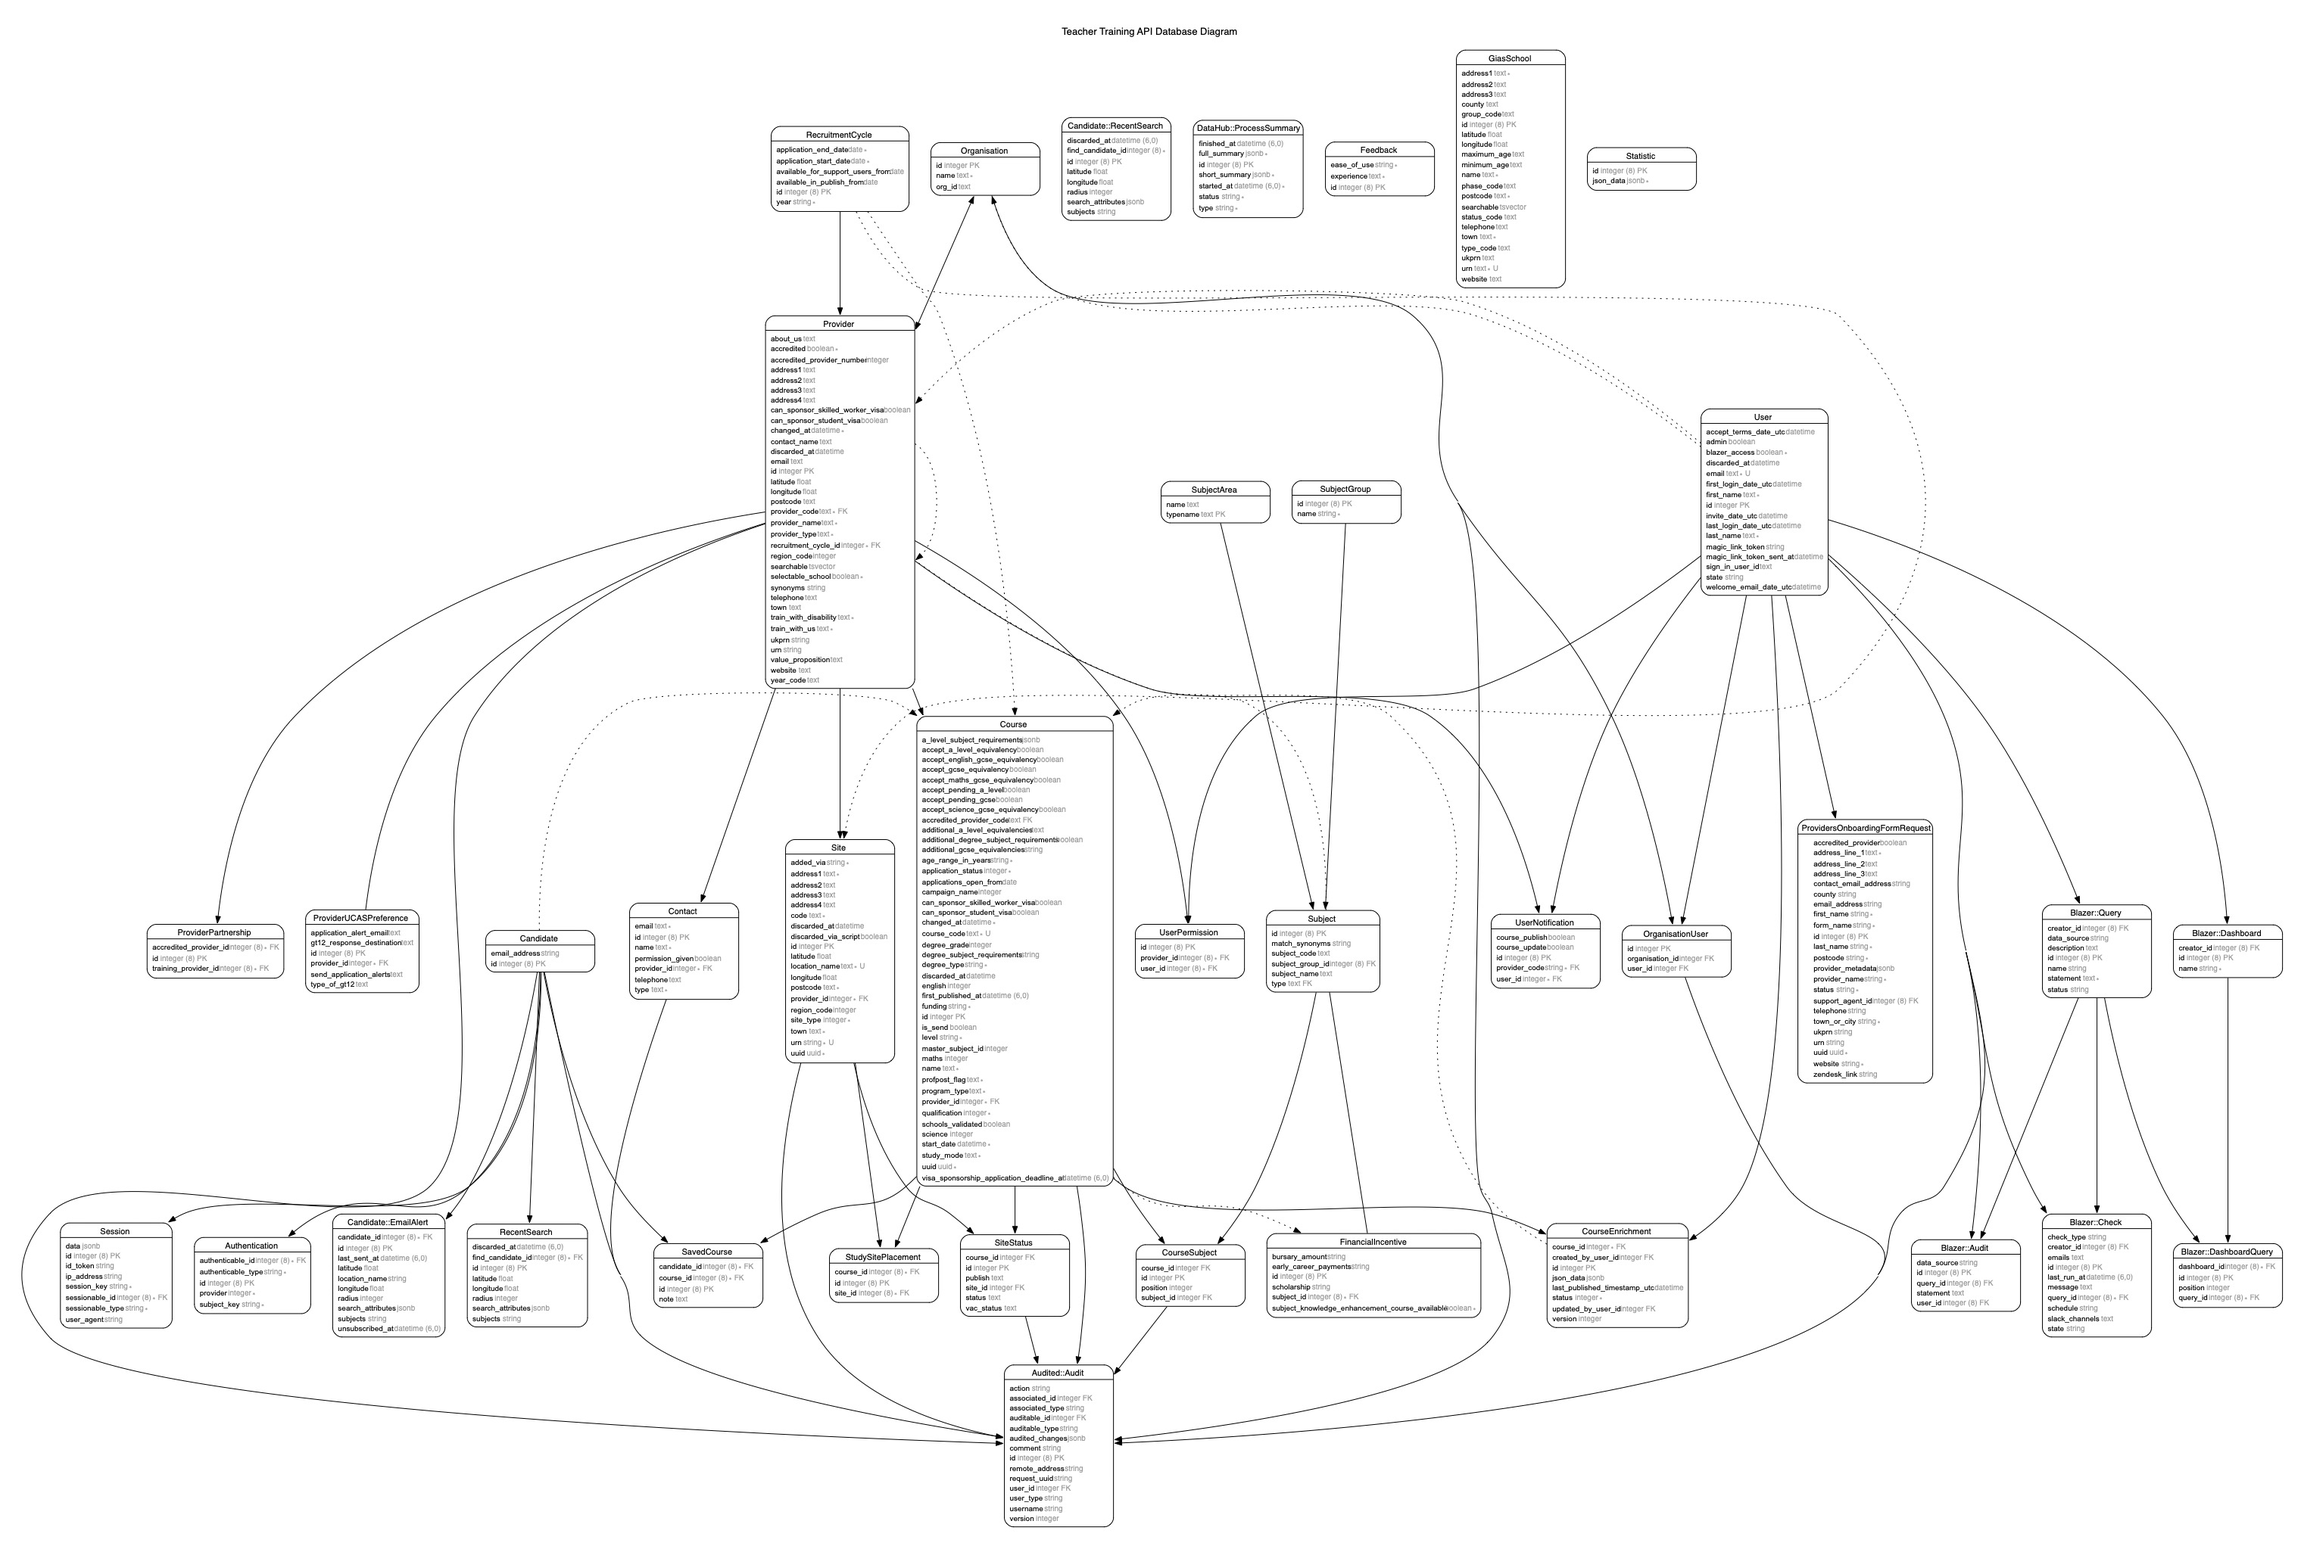
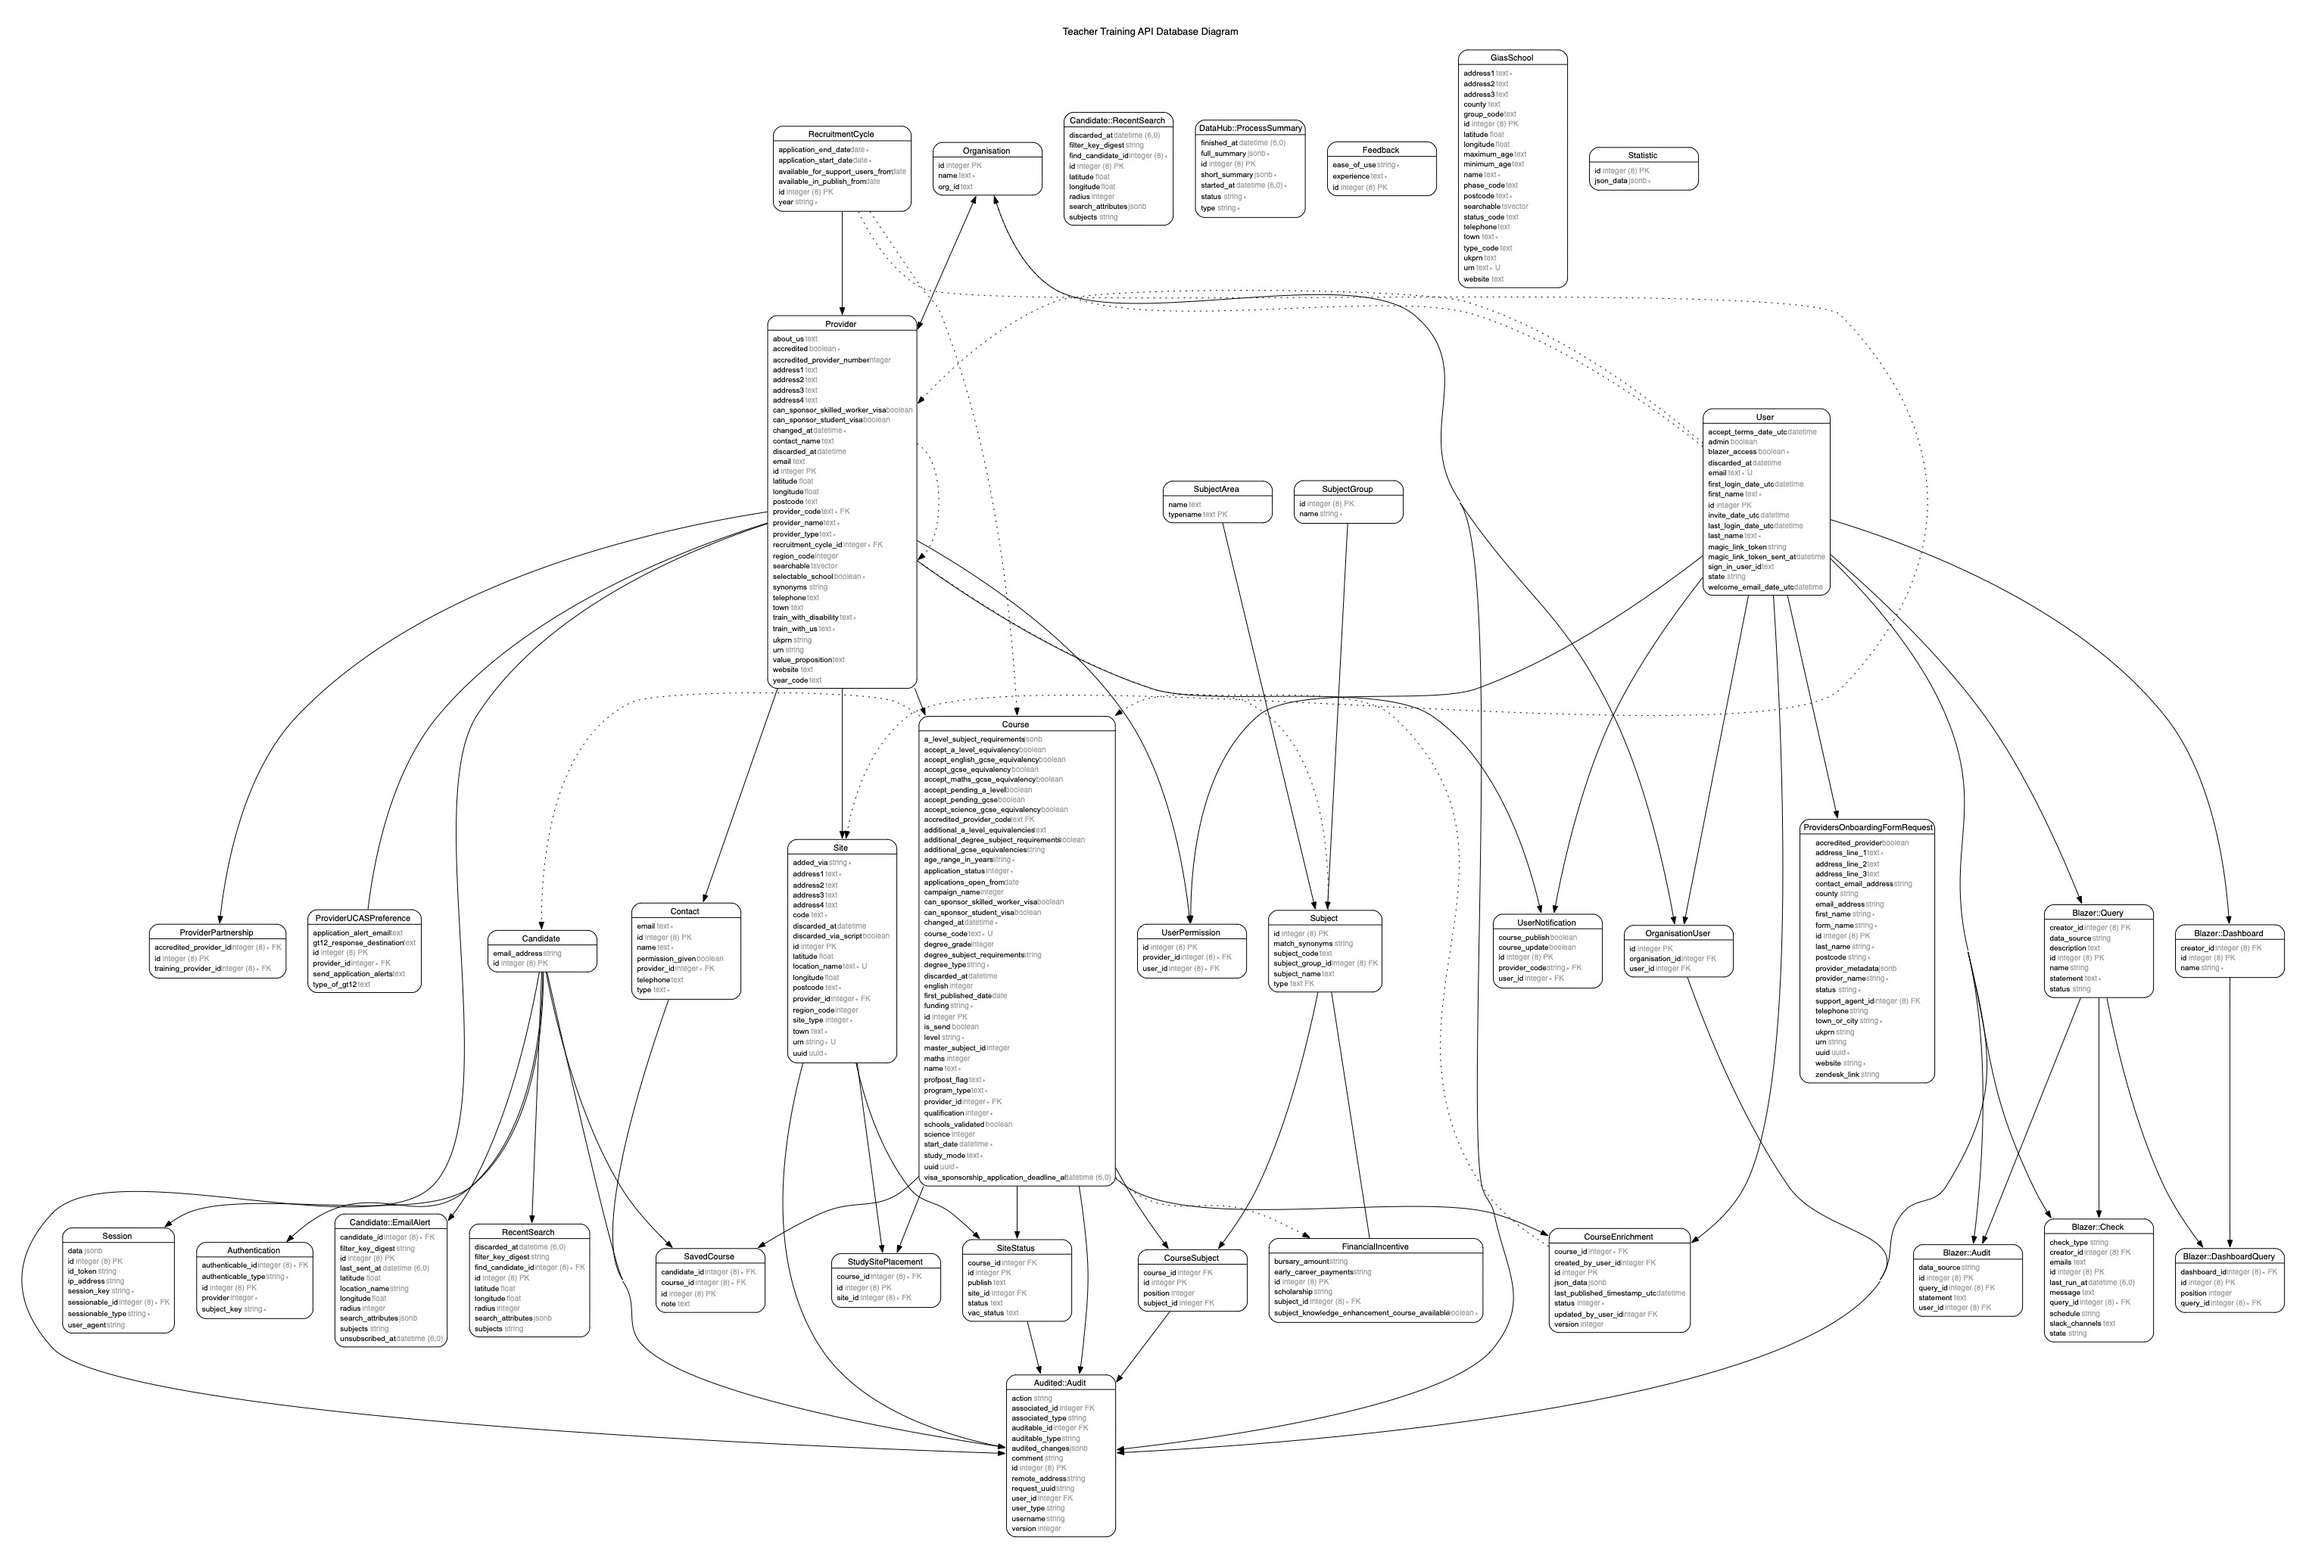
Add persisted filter_key_digest column to RecentSearch and EmailAlert
Replace on-the-fly SHA256 digest computation with a persisted column
on both tables, set via a shared FilterKeyDigestable concern. This
eliminates duplicated normalization logic in the SummaryCardComponent,
enables efficient DB-level lookups instead of loading all AR objects
in Ruby, and avoids recomputing digests on every page load.

diff --git a/spec/models/concerns/filter_key_digestable_spec.rb b/spec/models/concerns/filter_key_digestable_spec.rb
@@ -1,0 +1,103 @@
+# frozen_string_literal: true
+
+require "rails_helper"
+
+RSpec.describe FilterKeyDigestable do
+  describe "digest computation" do
+    it "sets filter_key_digest on create for EmailAlert" do
+      alert = create(:email_alert, subjects: %w[C1 F1], search_attributes: { "level" => "secondary" })
+
+      expect(alert.filter_key_digest).to be_present
+      expect(alert.filter_key_digest).to eq(alert.compute_filter_key_digest)
+    end
+
+    it "sets filter_key_digest on create for RecentSearch" do
+      search = create(:recent_search, subjects: %w[C1], search_attributes: { "funding" => "salary" })
+
+      expect(search.filter_key_digest).to be_present
+      expect(search.filter_key_digest).to eq(search.compute_filter_key_digest)
+    end
+
+    it "produces the same digest for the same subjects and search_attributes" do
+      attrs = { "level" => "secondary", "can_sponsor_visa" => "true" }
+      alert = create(:email_alert, subjects: %w[C1 F1], search_attributes: attrs)
+      search = create(:recent_search, subjects: %w[F1 C1], search_attributes: attrs)
+
+      expect(alert.filter_key_digest).to eq(search.filter_key_digest)
+    end
+
+    it "produces the same digest regardless of subject order" do
+      attrs = { "level" => "secondary" }
+      alert1 = create(:email_alert, subjects: %w[C1 F1], search_attributes: attrs)
+      alert2 = create(:email_alert, subjects: %w[F1 C1], search_attributes: attrs)
+
+      expect(alert1.filter_key_digest).to eq(alert2.filter_key_digest)
+    end
+
+    it "produces different digests for different subjects" do
+      attrs = { "level" => "secondary" }
+      alert1 = create(:email_alert, subjects: %w[C1], search_attributes: attrs)
+      alert2 = create(:email_alert, subjects: %w[F1], search_attributes: attrs)
+
+      expect(alert1.filter_key_digest).not_to eq(alert2.filter_key_digest)
+    end
+
+    it "produces different digests for different search_attributes" do
+      alert1 = create(:email_alert, subjects: %w[C1], search_attributes: { "level" => "secondary" })
+      alert2 = create(:email_alert, subjects: %w[C1], search_attributes: { "level" => "primary" })
+
+      expect(alert1.filter_key_digest).not_to eq(alert2.filter_key_digest)
+    end
+
+    it "ignores display-only keys in search_attributes" do
+      alert1 = create(:email_alert, subjects: %w[C1], search_attributes: { "level" => "secondary" })
+      alert2 = create(:email_alert, subjects: %w[C1], search_attributes: { "level" => "secondary", "location" => "London" })
+
+      expect(alert1.filter_key_digest).to eq(alert2.filter_key_digest)
+    end
+
+    it "handles nil search_attributes" do
+      alert = build(:email_alert, subjects: %w[C1], search_attributes: nil)
+      # Manually bypass validation to test nil handling
+      alert.instance_variable_set(:@search_attributes_override, true)
+
+      expect(alert.compute_filter_key_digest).to be_present
+    end
+
+    it "normalizes boolean-like values to strings" do
+      alert = create(:email_alert, subjects: %w[C1], search_attributes: { "can_sponsor_visa" => "true" })
+      search = create(:recent_search, subjects: %w[C1], search_attributes: { "can_sponsor_visa" => true })
+
+      expect(alert.filter_key_digest).to eq(search.filter_key_digest)
+    end
+  end
+
+  describe "callback conditions" do
+    it "recomputes digest when subjects change" do
+      alert = create(:email_alert, subjects: %w[C1], search_attributes: { "level" => "secondary" })
+      original_digest = alert.filter_key_digest
+
+      alert.update!(subjects: %w[C1 F1])
+
+      expect(alert.filter_key_digest).not_to eq(original_digest)
+    end
+
+    it "recomputes digest when search_attributes change" do
+      alert = create(:email_alert, subjects: %w[C1], search_attributes: { "level" => "secondary" })
+      original_digest = alert.filter_key_digest
+
+      alert.update!(search_attributes: { "level" => "primary" })
+
+      expect(alert.filter_key_digest).not_to eq(original_digest)
+    end
+
+    it "does not recompute digest when unrelated columns change" do
+      alert = create(:email_alert, subjects: %w[C1], search_attributes: { "level" => "secondary" })
+      original_digest = alert.filter_key_digest
+
+      alert.unsubscribe!
+
+      expect(alert.filter_key_digest).to eq(original_digest)
+    end
+  end
+end

diff --git a/app/models/candidate/email_alert.rb b/app/models/candidate/email_alert.rb
@@ -4,29 +4,14 @@ class Candidate
   class EmailAlert < ApplicationRecord
     self.table_name = "candidate_email_alerts"
 
+    include FilterKeyDigestable
+
     belongs_to :candidate
 
     validates :search_attributes, search_attributes: true
 
     scope :active, -> { where(unsubscribed_at: nil) }
     scope :subscribed, -> { active }
-
-    # Keys that determine what courses match — excludes display-only keys
-    # (location, formatted_address, radius, order, provider_name, provider_code, subject_code)
-    # which are either stored as separate columns or don't affect results.
-    FILTER_KEYS = %w[
-      applications_open
-      can_sponsor_visa
-      engineers_teach_physics
-      funding
-      interview_location
-      level
-      minimum_degree_required
-      qualifications
-      send_courses
-      start_date
-      study_types
-    ].freeze
 
     def matches_search?(subjects:, search_attributes:)
       other_attrs = search_attributes.to_h.stringify_keys
@@ -36,10 +21,6 @@ class Candidate
 
     def filter_key
       [subjects.sort, normalize_filter_attrs(search_attributes)]
-    end
-
-    def filter_key_hash
-      Digest::SHA256.hexdigest(filter_key.to_json)
     end
 
     def search_params
@@ -53,12 +34,6 @@ class Candidate
 
     def unsubscribe!
       update!(unsubscribed_at: Time.current)
-    end
-
-  private
-
-    def normalize_filter_attrs(attrs)
-      attrs.slice(*FILTER_KEYS).transform_values { |v| v.is_a?(Array) ? v.map(&:to_s) : v.to_s }
     end
   end
 end

diff --git a/app/models/concerns/filter_key_digestable.rb b/app/models/concerns/filter_key_digestable.rb
@@ -1,0 +1,51 @@
+# frozen_string_literal: true
+
+module FilterKeyDigestable
+  extend ActiveSupport::Concern
+
+  # Keys that determine what courses match — excludes display-only keys
+  FILTER_KEYS = %w[
+    applications_open
+    can_sponsor_visa
+    engineers_teach_physics
+    funding
+    interview_location
+    level
+    minimum_degree_required
+    qualifications
+    send_courses
+    start_date
+    study_types
+  ].freeze
+
+  included do
+    before_save :set_filter_key_digest, if: :should_recompute_digest?
+  end
+
+  def compute_filter_key_digest
+    key = [Array(subjects).sort, normalize_filter_attrs(search_attributes || {})]
+    Digest::SHA256.hexdigest(key.to_json)
+  end
+
+private
+
+  def normalize_filter_attrs(attrs)
+    attrs.stringify_keys.slice(*FILTER_KEYS).transform_values { |v| v.is_a?(Array) ? v.map(&:to_s) : v.to_s }
+  end
+
+  def set_filter_key_digest
+    self.filter_key_digest = compute_filter_key_digest
+  end
+
+  def should_recompute_digest?
+    new_record? || subjects_changed? || search_attributes_changed?
+  end
+
+  def subjects_changed?
+    will_save_change_to_attribute?(:subjects)
+  end
+
+  def search_attributes_changed?
+    will_save_change_to_attribute?(:search_attributes)
+  end
+end

diff --git a/app/controllers/find/candidates/email_alerts_controller.rb b/app/controllers/find/candidates/email_alerts_controller.rb
@@ -101,9 +101,16 @@ module Find
       end
 
       def existing_alert?
+        digest = compute_digest_from_params
+        @candidate.email_alerts.active.exists?(filter_key_digest: digest)
+      end
+
+      def compute_digest_from_params
         attrs = search_params.to_h.stringify_keys
-        subjects = Array(attrs["subjects"])
-        @candidate.email_alerts.active.any? { |a| a.matches_search?(subjects:, search_attributes: attrs) }
+        subjects = Array(attrs["subjects"]).sort
+        normalized = attrs.slice(*FilterKeyDigestable::FILTER_KEYS)
+          .transform_values { |v| v.is_a?(Array) ? v.map(&:to_s) : v.to_s }
+        Digest::SHA256.hexdigest([subjects, normalized].to_json)
       end
 
       def redirect_existing_alert

diff --git a/app/components/find/recent_searches/summary_card_component.rb b/app/components/find/recent_searches/summary_card_component.rb
@@ -37,14 +37,7 @@ module Find
       end
 
       def show_email_alert_link?
-        key = Digest::SHA256.hexdigest(
-          [
-            Array(@recent_search.subjects).sort,
-            @attrs.stringify_keys.slice(*Candidate::EmailAlert::FILTER_KEYS)
-              .transform_values { |v| v.is_a?(Array) ? v.map(&:to_s) : v.to_s },
-          ].to_json,
-        )
-        FeatureFlag.active?(:email_alerts) && !@alerted_search_keys.include?(key)
+        FeatureFlag.active?(:email_alerts) && !@alerted_search_keys.include?(@recent_search.filter_key_digest)
       end
 
     private

diff --git a/app/controllers/find/candidates/recent_searches_controller.rb b/app/controllers/find/candidates/recent_searches_controller.rb
@@ -11,7 +11,7 @@ module Find
 
         all_codes = @recent_searches.flat_map(&:subjects).compact.uniq
         @subject_names_by_code = all_codes.any? ? Subject.where(subject_code: all_codes).pluck(:subject_code, :subject_name).to_h : {}
-        @alerted_search_keys = @candidate.email_alerts.active.map(&:filter_key_hash).to_set
+        @alerted_search_keys = @candidate.email_alerts.active.pluck(:filter_key_digest).to_set
       end
 
       def clear_all

diff --git a/db/migrate/20260318120000_add_filter_key_digest_to_searches_and_alerts.rb b/db/migrate/20260318120000_add_filter_key_digest_to_searches_and_alerts.rb
@@ -1,0 +1,9 @@
+class AddFilterKeyDigestToSearchesAndAlerts < ActiveRecord::Migration[8.0]
+  def change
+    add_column :candidate_recent_search, :filter_key_digest, :string
+    add_column :candidate_email_alerts, :filter_key_digest, :string
+
+    add_index :candidate_recent_search, :filter_key_digest
+    add_index :candidate_email_alerts, :filter_key_digest
+  end
+end

diff --git a/db/migrate/20260318120001_backfill_filter_key_digest.rb b/db/migrate/20260318120001_backfill_filter_key_digest.rb
@@ -1,0 +1,10 @@
+class BackfillFilterKeyDigest < ActiveRecord::Migration[8.0]
+  def up
+    RecentSearch.find_each(&:save!)
+    Candidate::EmailAlert.find_each(&:save!)
+  end
+
+  def down
+    # No-op: removing the column is handled by rolling back the previous migration
+  end
+end

diff --git a/app/models/recent_search.rb b/app/models/recent_search.rb
@@ -4,6 +4,7 @@ class RecentSearch < ApplicationRecord
   self.table_name = "candidate_recent_search"
 
   include Discard::Model
+  include FilterKeyDigestable
 
   belongs_to :find_candidate, class_name: "Candidate"
 
